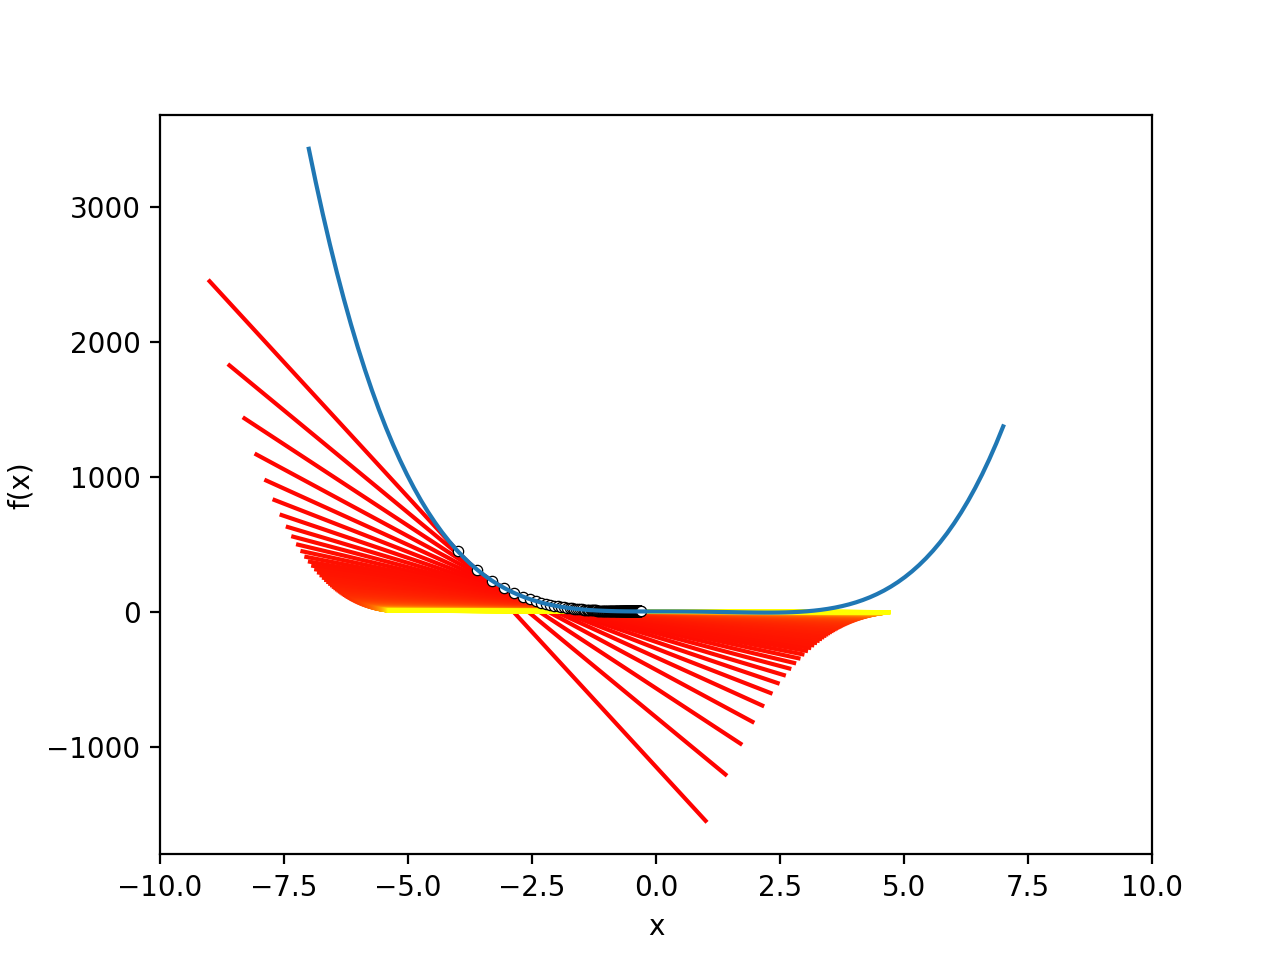
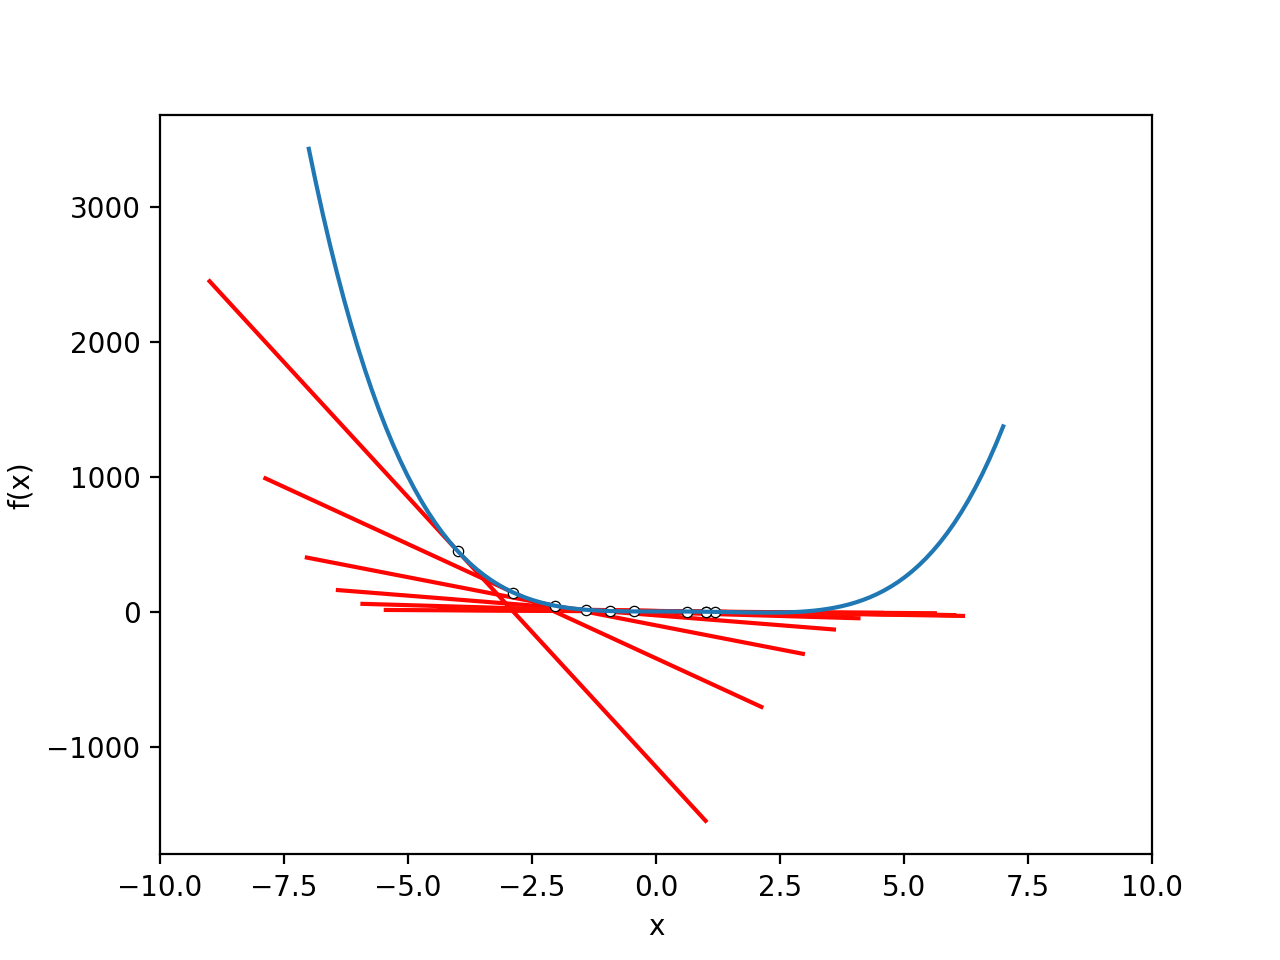
Built on 2019-11-10

Changed region(s): [[0.1875, 0.375, 0.75, 0.8125]]

diff --git a/_posts/2019-11-05-gradient-descent.md b/_posts/2019-11-05-gradient-descent.md
@@ -27,7 +27,8 @@ Given `x_s`, a starting point, we get closer to the root of function by solving
 
 The simple and plain algorithm of Newton-Raphosn is given in the below
 
-![picture](/Volumes/F/for_my_website/pythonseum/public/image/Figure-2019-11-05-newton-raphson-algorithm.png)  
+![picture](https://raw.githubusercontent.com/saeidamiri1/pythonseum/master/public/image/Figure-2019-11-05-newton-raphson-algorithm.png)
+
 
 Since we should run the iteration for many time; it is better to replace `for` with `while` loop. In the below, we present the algorithm in Python. 
 
@@ -92,6 +93,8 @@ plt.ylabel('f(x)')
 plt.show(block=False)
 ```
 
+![picture](https://raw.githubusercontent.com/saeidamiri1/pythonseum/master/public/image/Figure-2019-11-05-gradient-descent-2.png)
+
 ## Gradient Descent
 Gradient Descent is a numerical method to find the minimum value of a differentiable function.  The local minimum can be obtained using solving 
 
@@ -137,7 +140,7 @@ plt.ylabel('f(x)')
 plt.show(block=False)
 ```
 
-![picture](/Volumes/F/for_my_website/pythonseum/public/image/Figure-2019-11-05-gradient-descent-2.png) 
+![picture](https://raw.githubusercontent.com/saeidamiri1/pythonseum/master/public/image/Figure-2019-11-05-gradient-descent-3.png)
 
 
 **[⬆ back to top](#contents)**
